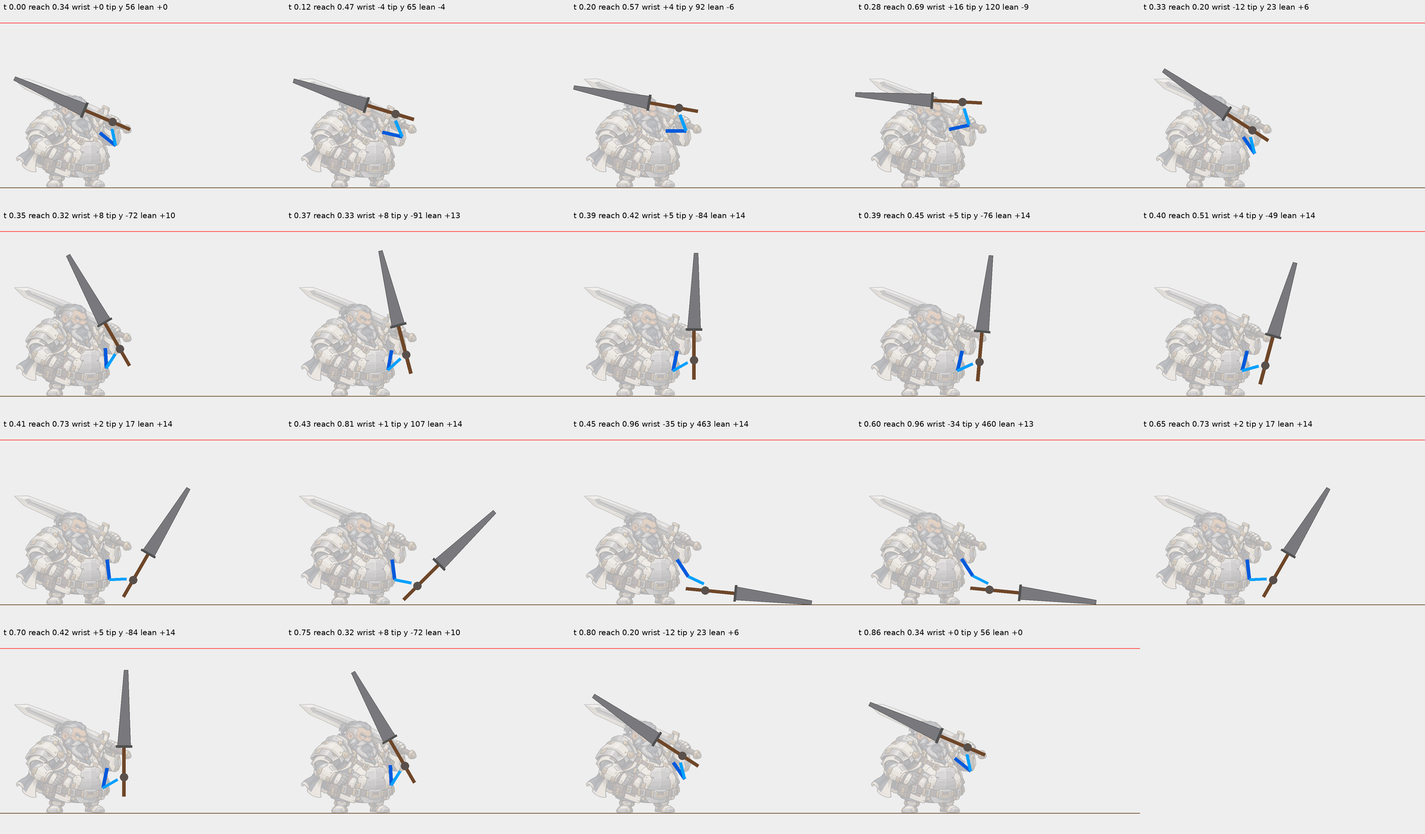
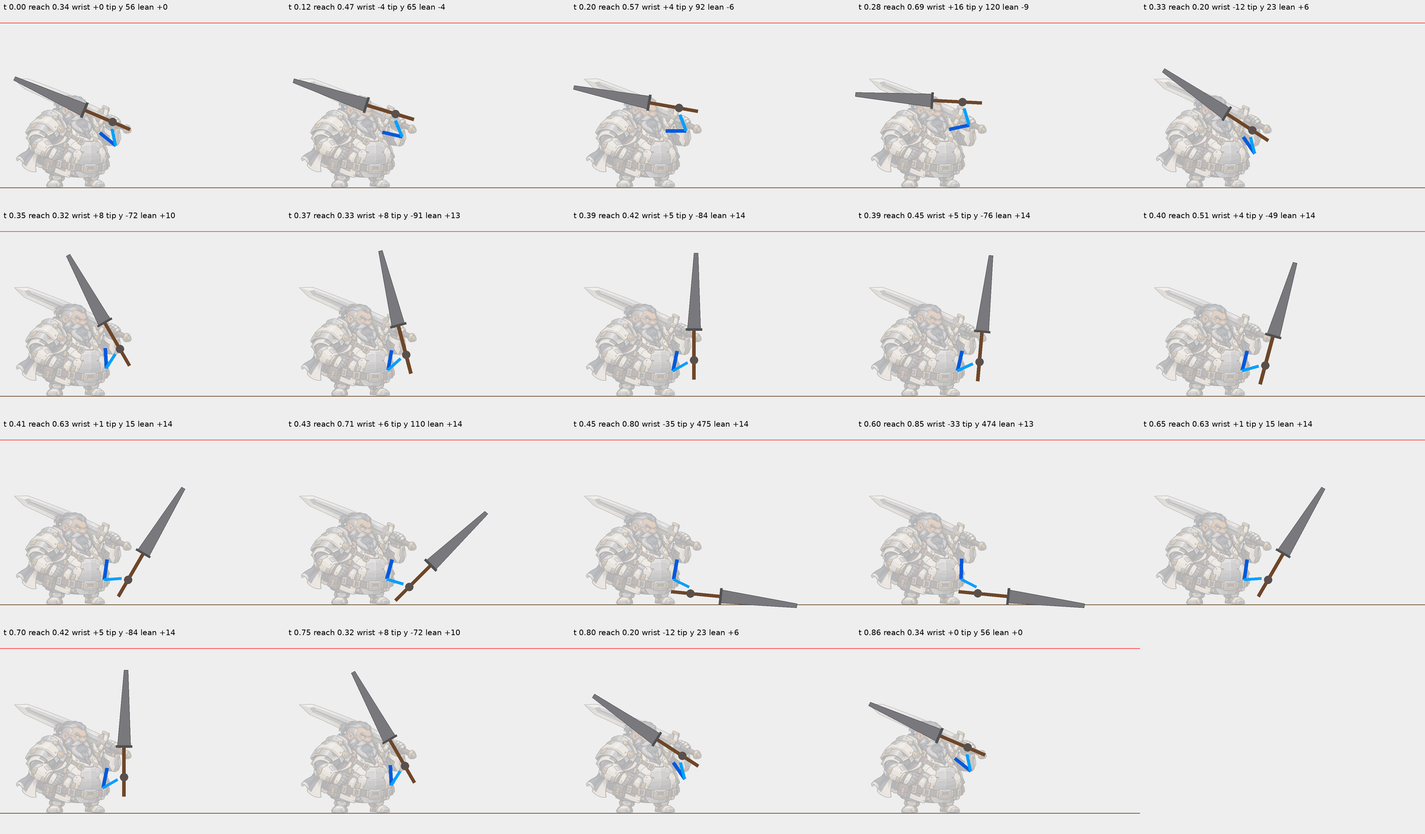
29 스카이 팔로메 v1.1: 달리는 부츠 = 시트 부츠(엔진 opt-in legs.tube.runBoot), 발목 평평·보폭 짧게 / 타격 때 먼 팔꿈치 굽힘(펴짐 ≤ .85)
- DHL 07:25 '달리기 자세 어색 · 팔이 갑자기 늘어나요'
- 엔진: tube 다리에서 달릴 때 쪽별 runBoot 로 한 프레임에 바꿈 — 옵션 없는 리그는 그대로
- rekey29.py: 칼 각·몸 기울기 그대로, 쥔 점만 조건 맞는 가장 가까운 자리. 먼 윗팔·먼 어깨는 새 조각 요청

Claude-Session: https://claude.ai/code/session_011WxNHak8EsK79yqEoeePC7

diff --git a/assets/rig/palome-sky/rig.def.js b/assets/rig/palome-sky/rig.def.js
@@ -1,3 +1,3 @@
 // 자동 생성: rig.json을 JS로 감싼 것. 원본은 같은 폴더의 rig.json (source/build_sky29.py)
 window.MR_RIG_DEFS=window.MR_RIG_DEFS||{};
-window.MR_RIG_DEFS['palome-sky']={"name": "palome-sky", "version": "4c449f3d", "units": "rig px (원화 512 ×2)", "refOrigin": [526.0, 956.0], "refScale": 1.0, "refLift": 0, "parts": {"torso": {"src": "parts/torso.png", "pivot": [140.0, 239.0], "scale": 2.0}, "skirt": {"src": "parts/skirt.png", "pivot": [140.0, 41.0], "scale": 2.0, "mesh": {"cols": 8, "rows": 6}}, "head": {"src": "parts/head.png", "pivot": [102.0, 138.0], "scale": 2.0}, "pauldron": {"src": "parts/pauldron.png", "pivot": [93.0, 89.0], "scale": 2.0}, "armU": {"src": "parts/armU.png", "pivot": [81.0, 21.0], "scale": 2.0, "elbow": [19.0, 82.0]}, "armL": {"src": "parts/armL.png", "pivot": [19.0, 27.0], "scale": 2.0, "fist": [105.4, 61.8]}, "armF": {"src": "parts/armF.png", "pivot": [10.0, 18.0], "scale": 2.0, "elbow": [72.0, 68.0]}, "foreF": {"src": "parts/foreF.png", "pivot": [50.0, 78.0], "scale": 2.0}, "fistF": {"src": "parts/fistF.png", "pivot": [36.0, 61.0], "scale": 2.0}, "pauldronF": {"src": "parts/pauldronF.png", "pivot": [10.0, 13.0], "scale": 2.0}, "cape": {"src": "parts/cape.png", "pivot": [87.0, 27.0], "scale": 2.0, "mesh": {"cols": 6, "rows": 7}}, "weapon": {"src": "parts/weapon.png", "pivot": [97.0, 847.0], "scale": 1.0, "tip": [107.9, 4.6], "tips": [[95.9, 24.6], [135.9, 24.6]], "guard": [107.6, 755.7], "pommel": [79.4, 997.7]}, "face_happy": {"src": "parts/face_happy.png", "pivot": [102.0, 138.0], "scale": 2.0}, "face_angry": {"src": "parts/face_angry.png", "pivot": [102.0, 138.0], "scale": 2.0}, "face_focus": {"src": "parts/face_focus.png", "pivot": [102.0, 138.0], "scale": 2.0}, "face_shout": {"src": "parts/face_shout.png", "pivot": [102.0, 138.0], "scale": 2.0}, "face_effort": {"src": "parts/face_effort.png", "pivot": [102.0, 138.0], "scale": 2.0}, "face_half": {"src": "parts/face_half.png", "pivot": [102.0, 138.0], "scale": 2.0}, "face_closed": {"src": "parts/face_closed.png", "pivot": [102.0, 138.0], "scale": 2.0}, "bootStandN": {"src": "parts/bootStandN.png", "pivot": [27.0, 25.0], "scale": 2.0}, "bootStandF": {"src": "parts/bootStandF.png", "pivot": [35.0, 23.0], "scale": 2.0}, "bootRun": {"src": "parts/bootRun.png", "pivot": [31.0, 45.0], "scale": 2.0}, "shinP": {"src": "parts/shinP.png", "pivot": [0, 0], "scale": 1}, "gF": {"src": "parts/fistF.png", "pivot": [36.0, 61.0], "grip": [38.0, 34.6], "elbow": [36.0, 61.0], "wrist": [36.0, 61.0], "scale": 2.0, "shaftDir": [-0.9215, -0.3885], "fore": "foreFa", "foreBone": "foreFb", "foreDir": [0.2075, 0.9782]}, "foreFa": {"src": "parts/foreF.png", "pivot": [36.0, 12.0], "elbow": [50.0, 78.0], "scale": 2.0}}, "bones": [{"name": "root", "parent": null, "pos": [0, 0]}, {"name": "hip", "parent": "root", "pos": [10.0, -172.0]}, {"name": "skirt", "parent": "hip", "pos": [0.0, 0.0], "part": "skirt"}, {"name": "torso", "parent": "hip", "pos": [0.0, 0.0], "part": "torso"}, {"name": "head", "parent": "torso", "pos": [28.0, -288.0], "part": "head"}, {"name": "armF", "parent": "torso", "pos": [188.0, -260.0], "part": "armF"}, {"name": "foreF", "parent": "armF", "pos": [124.0, 100.0], "part": "foreF"}, {"name": "fistF", "parent": "foreF", "pos": [-28.0, -132.0], "part": "fistF"}, {"name": "weapon", "parent": "fistF", "pos": [4.0, -52.7], "rot": -1.1718, "part": "weapon"}, {"name": "armU", "parent": "torso", "pos": [-216.0, -294.0], "part": "armU"}, {"name": "armL", "parent": "armU", "pos": [-124.0, 122.0], "rot": 0.3, "part": "armL"}, {"name": "pauldron", "parent": "torso", "pos": [-216.0, -294.0], "part": "pauldron"}, {"name": "cape", "parent": "torso", "pos": [-300.0, -184.0], "part": "cape"}, {"name": "scarf", "parent": "torso", "pos": [28.0, -288.0]}, {"name": "pouch", "parent": "hip", "pos": [0.0, 0.0]}, {"name": "pauldronF", "parent": "torso", "pos": [188.0, -260.0], "part": "pauldronF"}, {"name": "foreFb", "parent": "torso", "pos": [284.0, -292.0]}], "legs": {"hip": [0, 76.0], "thigh": 30.1, "shin": 30.1, "thighImg": {"part": "shinP", "a": [22, 0], "b": [22, 46], "w": 0.001}, "shinImg": {"part": "shinP", "a": [22, 0], "b": [22, 46], "w": 0.001}, "boot": {"part": "bootRun", "sole": [[-26.0, 18.0], [-12.0, 19.0], [13.0, 22.0], [35.0, 21.0], [49.0, 19.0]], "ankleRange": [-0.85, 0.95]}, "tube": {"part": "shinP", "a": [22, 0], "b": [22, 46], "k": 1.8}, "near": {"x": -172.0, "shade": 0, "thighImg": {"part": "shinP", "a": [22, 0], "b": [22, 46], "w": 0.001}, "shinImg": {"part": "shinP", "a": [22, 0], "b": [22, 46], "w": 0.001}, "stand": {"fade": [0.12, 0.4], "boot": {"part": "bootStandN", "sole": [[-24.0, 15.0], [-11.0, 19.0], [2.0, 20.0], [32.0, 17.0], [45.0, -10.0]]}}}, "far": {"x": 124.0, "shade": 0, "thighImg": {"part": "shinP", "a": [22, 0], "b": [22, 46], "w": 0.001}, "shinImg": {"part": "shinP", "a": [22, 0], "b": [22, 46], "w": 0.001}, "stand": {"fade": [0.12, 0.4], "boot": {"part": "bootStandF", "sole": [[-31.0, -11.0], [-16.0, 17.0], [18.0, 20.0], [34.0, 19.0], [49.0, 17.0]]}}}}, "draw": ["cape", "legFar", "legNear", "torso", "skirt", "armF", "pauldronF", "foreF", "weapon", "armU", "pauldron", "head", "fistF", "armL"], "hidden": [], "faces": {"happy": "face_happy", "angry": "face_angry", "focus": "face_focus", "shout": "face_shout", "effort": "face_effort"}, "blinkFaces": {"half": "face_half", "closed": "face_closed"}, "idleStance": {"near": -12.0, "far": 2.0}, "gait": {"stance": 0.18, "strideBase": 14, "strideK": 0.08, "hipBase": 0, "bob": 9, "lean": 0.06, "waddle": 0.02, "headBob": 3, "kneeLift": 0.25, "heelKick": 0.05, "dropCap": 16, "swingReach": 0.05, "landAng": -0.08, "angK": 0.45, "elbowRun": 0.3, "foreRun": 0.3, "armSwing": 0.08, "armBias": 0.0, "headRun": 0.06}, "hemRun": {"lift": 8, "knee": 0.5, "heel": 0.3, "reach": 0.2}, "hemLimit": {"up": 0.25, "x": 0.3}, "hemGain": 0.15, "footReach": 0.97, "follow": [{"bone": "pauldron", "src": "armU", "k": 0.3}], "skirtFollow": 0.7, "carrySwing": 0.15, "wristRange": 0.2, "dropLift": 10, "bounce": [], "metrics": {"bodyHeight": 734, "note": "rig units; 머리카락 위(y111)~발바닥(478) ×2, 칼 제외"}, "ui": {"attack": "smash", "touch": "hop"}, "gameRef": {"refOrigin": [246.5, 478.0], "refScale": 2.0, "refLift": 0, "note": "게임 그림 char_0029.png(512) = 원화(md5 같음). x = 도감 칸(fitArt 중심 251.5, index.html measureBox 와 같은 계산)에서 골반(hip x 268)이 가운데 (9 팔로메와 같은 규칙)"}, "note": "29 스카이아크 팔로메 v1(대기·달리기·한 손 내려찍기). 9 러스트 팔로메 v1.1 구조(드워프 몸, 먼 팔이 칼을 어깨에 멤, 칼날 머리 뒤) + 망토. 조각 = 원화를 부품별로 나눔(seg29.py) + 가려진 곳만 시트·inpaint 로 메움", "swordGrip": {"tipDepth": 6, "near": {"upper": "armF", "carry": "gF", "pieces": []}, "far": {"upper": "armU", "pieces": ["armL"], "sPref": 0}, "stretchMax": 1.05, "shoulderPush": 0}, "drawA": ["cape", "legFar", "legNear", "torso", "skirt", "armF", "pauldronF", "foreFb", "weapon", "armU", "pauldron", "head", "foreF", "armL"], "drawStrike": ["cape", "legFar", "legNear", "torso", "skirt", "armF", "pauldronF", "foreFb", "armU", "pauldron", "head", "weapon", "foreF", "armL"], "actions": {"smash": {"kind": "sword", "rigid": true, "orderAlways": true, "dur": 0.9, "hitAt": 0.45, "hitStop": 0.07, "cancelAt": 0.66, "w": [[0, 1]], "reach": [[0, 0]], "nPiece": [[0, "gF"]], "nUpper": [[0, "armF"]], "armIK": [[0, 1]], "ikSideK": {"N": [[0, 1]]}, "gx": [[0.0, 288.0, "io"], [0.12, 272.2, "io"], [0.28, 248.8, "io"], [0.33, 286.2, "lin"], [0.355, 347.0, "lin"], [0.37, 356.4, "lin"], [0.385, 379.8, "lin"], [0.4, 389.2, "lin"], [0.415, 450.0, "lin"], [0.43, 445.2, "lin"], [0.45, 466.2, "io"], [0.6, 461.6, "io"], [0.65, 450.0, "lin"], [0.7, 379.8, "lin"], [0.75, 347.0, "io"], [0.8, 286.2, "io"], [0.86, 288.0, "io"]], "gy": [[0.0, -344.8, "io"], [0.12, -415.4, "io"], [0.28, -500.8, "io"], [0.33, -290.8, "lin"], [0.355, -217.2, "lin"], [0.37, -174.4, "lin"], [0.385, -134.4, "lin"], [0.4, -92.2, "lin"], [0.415, -45.4, "lin"], [0.43, 1.4, "lin"], [0.45, 36.4, "io"], [0.6, 33.8, "io"], [0.65, -45.4, "lin"], [0.7, -134.4, "lin"], [0.75, -217.2, "io"], [0.8, -290.8, "io"], [0.86, -344.8, "io"]], "sa": [[0.0, -2.7426, "io"], [0.12, -2.8449, "io"], [0.28, -3.0892, "io"], [0.33, -2.5656, "lin"], [0.355, -2.0944, "lin"], [0.37, -1.8326, "lin"], [0.385, -1.5708, "lin"], [0.4, -1.309, "lin"], [0.415, -1.0472, "lin"], [0.43, -0.7854, "lin"], [0.45, 0.096, "io"], [0.6, 0.096, "io"], [0.65, -1.0472, "lin"], [0.7, -1.5708, "lin"], [0.75, -2.0944, "io"], [0.8, -2.5656, "io"], [0.86, -2.7426, "io"]], "lean": [[0.0, 0.0, "io"], [0.12, -0.0698, "io"], [0.28, -0.1571, "io"], [0.33, 0.1047, "lin"], [0.355, 0.1745, "lin"], [0.37, 0.2269, "lin"], [0.385, 0.2443, "lin"], [0.4, 0.2443, "lin"], [0.415, 0.2443, "lin"], [0.43, 0.2443, "lin"], [0.45, 0.2443, "io"], [0.6, 0.2269, "io"], [0.65, 0.2443, "lin"], [0.7, 0.2443, "lin"], [0.75, 0.1745, "io"], [0.8, 0.1047, "io"], [0.86, 0.0, "io"]], "hipY": [[0.0, 0.0, "io"], [0.12, 8.0, "io"], [0.28, 0.0, "io"], [0.33, 12.0, "lin"], [0.355, 18.0, "lin"], [0.37, 22.0, "lin"], [0.385, 24.0, "lin"], [0.4, 24.0, "lin"], [0.415, 24.0, "lin"], [0.43, 24.0, "lin"], [0.45, 24.0, "io"], [0.6, 22.0, "io"], [0.65, 24.0, "lin"], [0.7, 24.0, "lin"], [0.75, 18.0, "io"], [0.8, 12.0, "io"], [0.86, 0.0, "io"]], "head": [[0, 0], [0.28, -0.06, "io"], [0.45, 0.05, "io"], [0.6, 0.04, "io"], [0.86, 0]], "freeArm": true, "fuA": [[0, 0], [0.28, -0.12, "io"], [0.45, 0.3, "o"], [0.6, 0.26, "io"], [0.86, 0]], "flA": [[0, 0], [0.28, -0.08, "io"], [0.45, 0.18, "o"], [0.6, 0.15, "io"], [0.86, 0]], "face": [[0, "angry"], [0.12, "effort"], [0.4, "shout"], [0.62, "focus"], [0.82, null]], "order": [[0, "drawA"], [0.375, "drawStrike"], [0.72, "drawA"]]}}, "cutHold": 0.25};
+window.MR_RIG_DEFS['palome-sky']={"name": "palome-sky", "version": "11625f0d", "units": "rig px (원화 512 ×2)", "refOrigin": [526.0, 956.0], "refScale": 1.0, "refLift": 0, "parts": {"torso": {"src": "parts/torso.png", "pivot": [140.0, 239.0], "scale": 2.0}, "skirt": {"src": "parts/skirt.png", "pivot": [140.0, 41.0], "scale": 2.0, "mesh": {"cols": 8, "rows": 6}}, "head": {"src": "parts/head.png", "pivot": [102.0, 138.0], "scale": 2.0}, "pauldron": {"src": "parts/pauldron.png", "pivot": [93.0, 89.0], "scale": 2.0}, "armU": {"src": "parts/armU.png", "pivot": [81.0, 21.0], "scale": 2.0, "elbow": [19.0, 82.0]}, "armL": {"src": "parts/armL.png", "pivot": [19.0, 27.0], "scale": 2.0, "fist": [105.4, 61.8]}, "armF": {"src": "parts/armF.png", "pivot": [10.0, 18.0], "scale": 2.0, "elbow": [72.0, 68.0]}, "foreF": {"src": "parts/foreF.png", "pivot": [50.0, 78.0], "scale": 2.0}, "fistF": {"src": "parts/fistF.png", "pivot": [36.0, 61.0], "scale": 2.0}, "pauldronF": {"src": "parts/pauldronF.png", "pivot": [10.0, 13.0], "scale": 2.0}, "cape": {"src": "parts/cape.png", "pivot": [87.0, 27.0], "scale": 2.0, "mesh": {"cols": 6, "rows": 7}}, "weapon": {"src": "parts/weapon.png", "pivot": [97.0, 847.0], "scale": 1.0, "tip": [107.9, 4.6], "tips": [[95.9, 24.6], [135.9, 24.6]], "guard": [107.6, 755.7], "pommel": [79.4, 997.7]}, "face_happy": {"src": "parts/face_happy.png", "pivot": [102.0, 138.0], "scale": 2.0}, "face_angry": {"src": "parts/face_angry.png", "pivot": [102.0, 138.0], "scale": 2.0}, "face_focus": {"src": "parts/face_focus.png", "pivot": [102.0, 138.0], "scale": 2.0}, "face_shout": {"src": "parts/face_shout.png", "pivot": [102.0, 138.0], "scale": 2.0}, "face_effort": {"src": "parts/face_effort.png", "pivot": [102.0, 138.0], "scale": 2.0}, "face_half": {"src": "parts/face_half.png", "pivot": [102.0, 138.0], "scale": 2.0}, "face_closed": {"src": "parts/face_closed.png", "pivot": [102.0, 138.0], "scale": 2.0}, "bootStandN": {"src": "parts/bootStandN.png", "pivot": [27.0, 25.0], "scale": 2.0}, "bootStandF": {"src": "parts/bootStandF.png", "pivot": [35.0, 23.0], "scale": 2.0}, "bootNRun": {"src": "parts/bootNRun.png", "pivot": [28.6, 41.0], "scale": 2.0}, "bootFRun": {"src": "parts/bootFRun.png", "pivot": [28.6, 42.0], "scale": 2.0}, "shinP": {"src": "parts/shinP.png", "pivot": [0, 0], "scale": 1}, "gF": {"src": "parts/fistF.png", "pivot": [36.0, 61.0], "grip": [38.0, 34.6], "elbow": [36.0, 61.0], "wrist": [36.0, 61.0], "scale": 2.0, "shaftDir": [-0.9215, -0.3885], "fore": "foreFa", "foreBone": "foreFb", "foreDir": [0.2075, 0.9782]}, "foreFa": {"src": "parts/foreF.png", "pivot": [36.0, 12.0], "elbow": [50.0, 78.0], "scale": 2.0}}, "bones": [{"name": "root", "parent": null, "pos": [0, 0]}, {"name": "hip", "parent": "root", "pos": [10.0, -172.0]}, {"name": "skirt", "parent": "hip", "pos": [0.0, 0.0], "part": "skirt"}, {"name": "torso", "parent": "hip", "pos": [0.0, 0.0], "part": "torso"}, {"name": "head", "parent": "torso", "pos": [28.0, -288.0], "part": "head"}, {"name": "armF", "parent": "torso", "pos": [188.0, -260.0], "part": "armF"}, {"name": "foreF", "parent": "armF", "pos": [124.0, 100.0], "part": "foreF"}, {"name": "fistF", "parent": "foreF", "pos": [-28.0, -132.0], "part": "fistF"}, {"name": "weapon", "parent": "fistF", "pos": [4.0, -52.7], "rot": -1.1718, "part": "weapon"}, {"name": "armU", "parent": "torso", "pos": [-216.0, -294.0], "part": "armU"}, {"name": "armL", "parent": "armU", "pos": [-124.0, 122.0], "rot": 0.3, "part": "armL"}, {"name": "pauldron", "parent": "torso", "pos": [-216.0, -294.0], "part": "pauldron"}, {"name": "cape", "parent": "torso", "pos": [-300.0, -184.0], "part": "cape"}, {"name": "scarf", "parent": "torso", "pos": [28.0, -288.0]}, {"name": "pouch", "parent": "hip", "pos": [0.0, 0.0]}, {"name": "pauldronF", "parent": "torso", "pos": [188.0, -260.0], "part": "pauldronF"}, {"name": "foreFb", "parent": "torso", "pos": [284.0, -292.0]}], "legs": {"hip": [0, 76.0], "thigh": 30.1, "shin": 30.1, "thighImg": {"part": "shinP", "a": [22, 0], "b": [22, 46], "w": 0.001}, "shinImg": {"part": "shinP", "a": [22, 0], "b": [22, 46], "w": 0.001}, "boot": {"part": "bootFRun", "sole": [[-26.6, 16.0], [-9.6, 17.0], [9.4, 19.0], [28.4, 20.0], [45.4, 17.0]], "ankleRange": [-1.7, 1.7]}, "tube": {"part": "shinP", "a": [22, 0], "b": [22, 46], "k": 1.8, "runBoot": true}, "near": {"x": -172.0, "shade": 0, "thighImg": {"part": "shinP", "a": [22, 0], "b": [22, 46], "w": 0.001}, "shinImg": {"part": "shinP", "a": [22, 0], "b": [22, 46], "w": 0.001}, "runBoot": "bootNRun", "stand": {"fade": [0.12, 0.4], "boot": {"part": "bootStandN", "sole": [[-24.0, 15.0], [-11.0, 19.0], [2.0, 20.0], [32.0, 17.0], [45.0, -10.0]]}}}, "far": {"x": 124.0, "shade": 0, "thighImg": {"part": "shinP", "a": [22, 0], "b": [22, 46], "w": 0.001}, "shinImg": {"part": "shinP", "a": [22, 0], "b": [22, 46], "w": 0.001}, "runBoot": "bootFRun", "stand": {"fade": [0.12, 0.4], "boot": {"part": "bootStandF", "sole": [[-31.0, -11.0], [-16.0, 17.0], [18.0, 20.0], [34.0, 19.0], [49.0, 17.0]]}}}}, "draw": ["cape", "legFar", "legNear", "torso", "skirt", "armF", "pauldronF", "foreF", "weapon", "armU", "pauldron", "head", "fistF", "armL"], "hidden": [], "faces": {"happy": "face_happy", "angry": "face_angry", "focus": "face_focus", "shout": "face_shout", "effort": "face_effort"}, "blinkFaces": {"half": "face_half", "closed": "face_closed"}, "idleStance": {"near": -12.0, "far": 2.0}, "gait": {"stance": 0.18, "strideBase": 14, "strideK": 0.06, "hipBase": 0, "bob": 6, "lean": 0.06, "waddle": 0.02, "headBob": 3, "kneeLift": 0.2, "heelKick": 0.03, "dropCap": 12, "swingReach": 0.05, "landAng": -0.04, "angK": 0.2, "elbowRun": 0.3, "foreRun": 0.3, "armSwing": 0.08, "armBias": 0.0, "headRun": 0.06}, "hemRun": {"lift": 8, "knee": 0.5, "heel": 0.3, "reach": 0.2}, "hemLimit": {"up": 0.25, "x": 0.3}, "hemGain": 0.15, "footReach": 0.97, "follow": [{"bone": "pauldron", "src": "armU", "k": 0.3}], "skirtFollow": 0.7, "carrySwing": 0.15, "wristRange": 0.2, "dropLift": 10, "bounce": [], "metrics": {"bodyHeight": 734, "note": "rig units; 머리카락 위(y111)~발바닥(478) ×2, 칼 제외"}, "ui": {"attack": "smash", "touch": "hop"}, "gameRef": {"refOrigin": [246.5, 478.0], "refScale": 2.0, "refLift": 0, "note": "게임 그림 char_0029.png(512) = 원화(md5 같음). x = 도감 칸(fitArt 중심 251.5, index.html measureBox 와 같은 계산)에서 골반(hip x 268)이 가운데 (9 팔로메와 같은 규칙)"}, "note": "29 스카이아크 팔로메 v1(대기·달리기·한 손 내려찍기). 9 러스트 팔로메 v1.1 구조(드워프 몸, 먼 팔이 칼을 어깨에 멤, 칼날 머리 뒤) + 망토. 조각 = 원화를 부품별로 나눔(seg29.py) + 가려진 곳만 시트·inpaint 로 메움", "swordGrip": {"tipDepth": 6, "near": {"upper": "armF", "carry": "gF", "pieces": []}, "far": {"upper": "armU", "pieces": ["armL"], "sPref": 0}, "stretchMax": 1.05, "shoulderPush": 0}, "drawA": ["cape", "legFar", "legNear", "torso", "skirt", "armF", "pauldronF", "foreFb", "weapon", "armU", "pauldron", "head", "foreF", "armL"], "drawStrike": ["cape", "legFar", "legNear", "torso", "skirt", "armF", "pauldronF", "foreFb", "armU", "pauldron", "head", "weapon", "foreF", "armL"], "actions": {"smash": {"kind": "sword", "rigid": true, "orderAlways": true, "dur": 0.9, "hitAt": 0.45, "hitStop": 0.07, "cancelAt": 0.66, "w": [[0, 1]], "reach": [[0, 0]], "nPiece": [[0, "gF"]], "nUpper": [[0, "armF"]], "armIK": [[0, 1]], "ikSideK": {"N": [[0, 1]]}, "gx": [[0.0, 288.0, "io"], [0.12, 272.2, "io"], [0.28, 248.8, "io"], [0.33, 286.2, "lin"], [0.355, 347.0, "lin"], [0.37, 356.4, "lin"], [0.385, 379.8, "lin"], [0.4, 389.2, "lin"], [0.415, 410.0, "lin"], [0.43, 380.0, "lin"], [0.45, 350.2, "io"], [0.6, 369.6, "io"], [0.65, 410.0, "lin"], [0.7, 379.8, "lin"], [0.75, 347.0, "io"], [0.8, 286.2, "io"], [0.86, 288.0, "io"]], "gy": [[0.0, -344.8, "io"], [0.12, -415.4, "io"], [0.28, -500.8, "io"], [0.33, -290.8, "lin"], [0.355, -217.2, "lin"], [0.37, -174.4, "lin"], [0.385, -134.4, "lin"], [0.4, -92.2, "lin"], [0.415, -48.0, "lin"], [0.43, 8.0, "lin"], [0.45, 60.4, "io"], [0.6, 61.8, "io"], [0.65, -48.0, "lin"], [0.7, -134.4, "lin"], [0.75, -217.2, "io"], [0.8, -290.8, "io"], [0.86, -344.8, "io"]], "sa": [[0.0, -2.7426, "io"], [0.12, -2.8449, "io"], [0.28, -3.0892, "io"], [0.33, -2.5656, "lin"], [0.355, -2.0944, "lin"], [0.37, -1.8326, "lin"], [0.385, -1.5708, "lin"], [0.4, -1.309, "lin"], [0.415, -1.0472, "lin"], [0.43, -0.7854, "lin"], [0.45, 0.096, "io"], [0.6, 0.096, "io"], [0.65, -1.0472, "lin"], [0.7, -1.5708, "lin"], [0.75, -2.0944, "io"], [0.8, -2.5656, "io"], [0.86, -2.7426, "io"]], "lean": [[0.0, 0.0, "io"], [0.12, -0.0698, "io"], [0.28, -0.1571, "io"], [0.33, 0.1047, "lin"], [0.355, 0.1745, "lin"], [0.37, 0.2269, "lin"], [0.385, 0.2443, "lin"], [0.4, 0.2443, "lin"], [0.415, 0.2443, "lin"], [0.43, 0.2443, "lin"], [0.45, 0.2443, "io"], [0.6, 0.2269, "io"], [0.65, 0.2443, "lin"], [0.7, 0.2443, "lin"], [0.75, 0.1745, "io"], [0.8, 0.1047, "io"], [0.86, 0.0, "io"]], "hipY": [[0.0, 0.0, "io"], [0.12, 8.0, "io"], [0.28, 0.0, "io"], [0.33, 12.0, "lin"], [0.355, 18.0, "lin"], [0.37, 22.0, "lin"], [0.385, 24.0, "lin"], [0.4, 24.0, "lin"], [0.415, 24.0, "lin"], [0.43, 24.0, "lin"], [0.45, 24.0, "io"], [0.6, 22.0, "io"], [0.65, 24.0, "lin"], [0.7, 24.0, "lin"], [0.75, 18.0, "io"], [0.8, 12.0, "io"], [0.86, 0.0, "io"]], "head": [[0, 0], [0.28, -0.06, "io"], [0.45, 0.05, "io"], [0.6, 0.04, "io"], [0.86, 0]], "freeArm": true, "fuA": [[0, 0], [0.28, -0.12, "io"], [0.45, 0.3, "o"], [0.6, 0.26, "io"], [0.86, 0]], "flA": [[0, 0], [0.28, -0.08, "io"], [0.45, 0.18, "o"], [0.6, 0.15, "io"], [0.86, 0]], "face": [[0, "angry"], [0.12, "effort"], [0.4, "shout"], [0.62, "focus"], [0.82, null]], "order": [[0, "drawA"], [0.375, "drawStrike"], [0.72, "drawA"]]}}, "cutHold": 0.25};

diff --git a/assets/rig/rig.js b/assets/rig/rig.js
@@ -151,7 +151,8 @@
       // S.thighImg / S.shinImg (opt-in): 가까운·먼 다리에 다른 그림. L.kneeImg / S.kneeImg (opt-in): 무릎 덮개(보호대)를 무릎 위에 따로 — 허벅지·정강이 가운데 각도
       if (L.tube) {   // legs.tube (opt-in, 6 카르덴 10-18): 다리 = 엉덩이→발목 곧은 바지 통 하나(무릎에서 꺾이지 않음, 굵기 고정) + 부츠 — 바지가 몸처럼 고정인 캐릭터에서 무릎이 바지 밖으로 튀어나와 '떨어진 다리'로 보이던 것
         const T_ = L.tube, im_ = this.images[T_.part], il_ = Math.hypot(T_.b[0] - T_.a[0], T_.b[1] - T_.a[1]), wl_ = Math.hypot(P.ankle[0] - P.hip[0], P.ankle[1] - P.hip[1]) || 1;
-        set(ctx, this._seg(R, T_.a, T_.b, P.hip, P.ankle, (T_.k || 1) * il_ / wl_)); ctx.drawImage(im_, 0, 0); boot(P.boot || bd.part);
+        set(ctx, this._seg(R, T_.a, T_.b, P.hip, P.ankle, (T_.k || 1) * il_ / wl_)); ctx.drawImage(im_, 0, 0);
+        if (T_.runBoot && S.stand) boot(P.standW >= .5 ? P.boot : (S.runBoot || bd.part)); else boot(P.boot || bd.part);   // tube.runBoot(opt-in, 29 스카이 팔로메): 달리면 서 있는 원화 부츠 대신 쪽별 달리기 부츠(S.runBoot) — 반투명 겹침 없이 한 프레임에 바꿈
         if (useF) ctx.filter = "none"; return }
       const drawSet = (ST) => {
         const bpn = ST ? ((ST.boot && ST.boot.part) || bd.part) : bd.part;

diff --git a/assets/rig/palome-sky/source/build_sky29.py b/assets/rig/palome-sky/source/build_sky29.py
@@ -157,7 +157,18 @@ print('  sword vertical: tip', np.round(W_TIP, 1), 'grip', np.round(W_PIV, 1), '
 o_lN = save('bootStandN', art(lab('legN'))); o_lF = save('bootStandF', art(lab('legF')))
 # 달리는 부츠 = 시트 먼 부츠(깨끗한 한 장, 앞코 오른쪽, 남색 목까지) → 원화 먼 부츠 바닥 양 끝에 맞춤(시트 0,48 → 303,471 · 69,48 → 382,471, 1.15배) · 색 = 원화 부츠
 #   (원화 다리를 밑단 아래에서 잘라 쓰면 목의 금 장식이 잘려 찢어진 조각처럼 보였음)
-bf = warp(col_match(sheet('bootF'), lab('legF') & (YY >= 446)), simil((0, 48), (69, 48), (303, 471), (382, 471))); o_bR = save('bootRun', bf)
+# 달리는 부츠(쪽별) = 시트 부츠 그대로 그림 크기 1.1배(늘이지 않음, 원화 부츠 길이에 맞춤) · 색 = 원화 부츠. 발목 점 = 정강이 판 아래(시트 x 26, 밑창 위 20px)
+#   엔진 opt-in legs.tube.runBoot 으로 달릴 때만(서 있을 땐 원화 다리) — 10-20 07:25 DHL '달리기 자세 어색': 원화 다리를 잘라 만든 부츠가 돌며 찢긴 장식·아래로 꺾인 발끝
+RBK = 1.1
+def run_boot(nm, lm):
+    b = col_match(sheet(nm), lm & (YY >= 446)); H_, W_ = b.shape[:2]; b = cv2.resize(b, (int(round(W_ * RBK)), int(round(H_ * RBK))), interpolation=cv2.INTER_LANCZOS4)
+    ys, xs = np.nonzero(b[..., 3] > 128); sole = ys.max(); piv = (26 * RBK, sole - 20.0)
+    Image.fromarray(b).save(os.path.join(PARTS, f'{nm}Run.png'))
+    bot = {x: ys[xs == x].max() for x in range(xs.min(), xs.max() + 1) if (xs == x).any()}; xl, xr = min(bot), max(bot)
+    cols = sorted(set(int(round(xl + (xr - xl) * f)) for f in (0.03, 0.25, 0.5, 0.75, 0.97)))
+    return piv, [[round(float(x - piv[0]), 1), round(float(bot[x] - piv[1]), 1)] for x in cols]
+RB = {'near': run_boot('bootN', lab('legN')), 'far': run_boot('bootF', lab('legF'))}
+bf = art(lab('legF') & (YY >= 446))   # (옛 bootRun — 쓰지 않음, 밑창 점 계산용)
 def sole_pts(m, ankle, ground=None):
     ys, xs = np.nonzero(m); xl, xr = xs.min(), xs.max(); bot = {x: ys[xs == x].max() for x in range(xl, xr + 1) if (xs == x).any()}
     xlow = max(bot, key=lambda x: bot[x]); cols = sorted(set([int(round(xl + (xr - xl) * f)) for f in (0.02, 0.2, 0.8, 0.98)] + [xlow]))
@@ -214,7 +225,7 @@ parts['weapon'] = {'src': 'parts/weapon.png', 'pivot': [round(float(W_PIV[0]), 1
                    'guard': [round(float(W_GUARD[0]), 1), round(float(W_GUARD[1]), 1)], 'pommel': [round(float(W_POM[0]), 1), round(float(W_POM[1]), 1)]}
 for n in FACE_N + BLINK_N: parts[f'face_{n}'] = {'src': f'parts/face_{n}.png', 'pivot': parts['head']['pivot'], 'scale': SC}
 for nm, sd in [('bootStandN', 'near'), ('bootStandF', 'far')]: P_(nm, LEG[sd]['ankle'])
-P_('bootRun', LEG['far']['ankle'])
+for _sd, _nm in (('near', 'bootNRun'), ('far', 'bootFRun')): parts[_nm] = {'src': f'parts/{_nm}.png', 'pivot': [round(RB[_sd][0][0], 1), round(RB[_sd][0][1], 1)], 'scale': SC}
 parts['shinP'] = {'src': 'parts/shinP.png', 'pivot': [0, 0], 'scale': 1}
 WEAPON_ANG = math.atan2(UT[1], UT[0]) + math.pi / 2   # 세로 칼 그림 뼈의 세계 각(그림 위쪽 → 칼끝)
 ARML_REST = 0.3   # 엔진이 서 있을 때 자유 팔뚝을 −0.3 rad 굽힘(armL.ar) → 뼈 rot 에 +0.3 을 넣어 대기 = 원화
@@ -237,10 +248,10 @@ hipY = SC * (LEG['near']['hip'][1] - HIP[1])
 LEGL = float(np.linalg.norm(LEG['near']['ankle'] - LEG['near']['hip'])) * SC   # 엉덩이→발목(리그) — 짧은 드워프 다리: 허벅지·정강이 = 반씩 + 5%
 legs = {'hip': [0, round(hipY, 1)], 'thigh': round(LEGL * .525, 1), 'shin': round(LEGL * .525, 1),
         'thighImg': {'part': 'shinP', 'a': [22, 0], 'b': [22, 46], 'w': 0.001}, 'shinImg': {'part': 'shinP', 'a': [22, 0], 'b': [22, 46], 'w': 0.001},
-        'boot': {'part': 'bootRun', 'sole': sole_pts(bf[..., 3] > 128, LEG['far']['ankle']), 'ankleRange': [-0.85, 0.95]},
-        'tube': {'part': 'shinP', 'a': [22, 0], 'b': [22, 46], 'k': 1.8}}
+        'boot': {'part': 'bootFRun', 'sole': RB['far'][1], 'ankleRange': [-1.7, 1.7]},   # 발목 범위 넓게 — 짧은 다리라 정강이(통) 각이 크게 흔들려도 부츠는 땅과 거의 평평(좁으면 부츠가 통을 따라 돌아 발끝이 아래로 꺾임)
+        'tube': {'part': 'shinP', 'a': [22, 0], 'b': [22, 46], 'k': 1.8, 'runBoot': True}}
 for sd, nm, lm in [('near', 'bootStandN', lab('legN')), ('far', 'bootStandF', lab('legF'))]:
-    legs[sd] = {'x': round(SC * (LEG[sd]['hip'][0] - HIP[0]), 1), 'shade': 0, 'thighImg': legs['thighImg'], 'shinImg': legs['shinImg'],
+    legs[sd] = {'x': round(SC * (LEG[sd]['hip'][0] - HIP[0]), 1), 'shade': 0, 'thighImg': legs['thighImg'], 'shinImg': legs['shinImg'], 'runBoot': 'bootNRun' if sd == 'near' else 'bootFRun',
                 'stand': {'fade': [0.12, 0.4], 'boot': {'part': nm, 'sole': sole_pts(lm, LEG[sd]['ankle'], O[1])}}}
 idle = {sd: round(SC * (LEG[sd]['ankle'][0] - LEG[sd]['hip'][0]), 1) for sd in ('near', 'far')}
 # 그리는 순서 (뒤 → 앞): 망토 · 먼 다리 · 가까운 다리 · 상체 · 치마 · 먼 윗팔(소매) · 먼 어깨 덮개(몸 띠) · 먼 팔뚝 · 칼(칼날은 머리 뒤) · 가까운 윗팔 · 어깨갑 · 머리+수염(+표정) · 먼 손 · 가까운 팔뚝+주먹(맨 앞 — 팔꿈치 레이어 > 어깨)
@@ -248,8 +259,8 @@ draw = ['cape', 'legFar', 'legNear', 'torso', 'skirt', 'armF', 'pauldronF', 'for
 rig = {'name': 'palome-sky', 'version': 1, 'units': 'rig px (원화 512 ×2)', 'refOrigin': [float(O[0] * 2), float(O[1] * 2)], 'refScale': 1.0, 'refLift': 0,
        'parts': parts, 'bones': bones, 'legs': legs, 'draw': draw, 'hidden': [], 'faces': {n: f'face_{n}' for n in FACE_N},
        'blinkFaces': {'half': 'face_half', 'closed': 'face_closed'}, 'idleStance': idle,
-       'gait': {'stance': 0.18, 'strideBase': 14, 'strideK': 0.08, 'hipBase': 0, 'bob': 9, 'lean': 0.06, 'waddle': 0.02, 'headBob': 3, 'kneeLift': 0.25, 'heelKick': 0.05, 'dropCap': 16,
-                'swingReach': 0.05, 'landAng': -0.08, 'angK': 0.45, 'elbowRun': 0.3, 'foreRun': 0.3, 'armSwing': 0.08, 'armBias': 0.0, 'headRun': 0.06},   # 가까운 팔은 배 앞을 가로지름 → 조금만 흔듦(배·주머니가 덜 드러남) · elbowRun .3 = 엔진 대기 팔뚝 굽힘(−.3)과 같아 달려도 팔뚝 각이 대기 그대로
+       'gait': {'stance': 0.18, 'strideBase': 14, 'strideK': 0.06, 'hipBase': 0, 'bob': 6, 'lean': 0.06, 'waddle': 0.02, 'headBob': 3, 'kneeLift': 0.2, 'heelKick': 0.03, 'dropCap': 12,
+                'swingReach': 0.05, 'landAng': -0.04, 'angK': 0.2, 'elbowRun': 0.3, 'foreRun': 0.3, 'armSwing': 0.08, 'armBias': 0.0, 'headRun': 0.06},   # 가까운 팔은 배 앞을 가로지름 → 조금만 흔듦(배·주머니가 덜 드러남) · elbowRun .3 = 엔진 대기 팔뚝 굽힘(−.3)과 같아 달려도 팔뚝 각이 대기 그대로
        'hemRun': {'lift': 8, 'knee': 0.5, 'heel': 0.3, 'reach': 0.2}, 'hemLimit': {'up': 0.25, 'x': 0.3}, 'hemGain': 0.15, 'footReach': 0.97,
        'follow': [{'bone': 'pauldron', 'src': 'armU', 'k': 0.3}], 'skirtFollow': 0.7, 'carrySwing': 0.15, 'wristRange': 0.2, 'dropLift': 10,
        'bounce': [], 'metrics': {'bodyHeight': round(2 * (478 - 111)), 'note': 'rig units; 머리카락 위(y111)~발바닥(478) ×2, 칼 제외'},

diff --git a/assets/rig/palome-sky/source/tools/rekey29.py b/assets/rig/palome-sky/source/tools/rekey29.py
@@ -1,0 +1,31 @@
+# 29 공격 키 다시 맞추기 (10-20 07:25 DHL '팔이 갑자기 늘어나요') — 규칙 33: 펴짐(reach) ≤ 0.85 · 손목 ≤ 35° · 칼끝 땅 위 · 칼끝이 지금보다 높지 않게(전투 칸)
+#   키마다 칼 각·몸 기울기·골반 내림은 그대로, 쥔 점만 지금 자리에서 가장 가까운 '조건 맞는 자리'로 옮김 → attack_keys.json(keys_prev 에 이전 키)
+import json, math, os, sys
+import numpy as np
+S_ = os.path.dirname(os.path.dirname(os.path.abspath(__file__)))
+sys.argv = ['presim29.py']; __file__ = os.path.join(S_, 'tools', 'presim29.py')
+exec(open(__file__).read().split("if __name__ == '__main__':")[0])
+AK = json.load(open(os.path.join(S_, 'attack_keys.json'))); K0 = AK['keys']
+RMAX, WMAX, TIPTOP = float(os.environ.get('RMAX', .85)), 35, -95
+def ok_at(gx, gy, sa, lean, hd):
+    globals()['KEYS'] = [[0, gx, gy, sa, lean, hd], [1, gx, gy, sa, lean, hd]]; p = pose(.5, SIDE)
+    ty = p['tip'][1] + HIP[1]; py = p['pom'][1] + HIP[1]
+    good = p['ok'] and p['reach'] <= RMAX and abs(p['bend']) <= WMAX and ty >= TIPTOP and max(ty, py) <= J['GROUND'] - 2
+    return good, p
+out = []
+for k in K0:
+    t, gx, gy, sa, lean, hd = k[:6]; e = k[6] if len(k) > 6 else 'io'
+    g, p = ok_at(gx, gy, sa, lean, hd)
+    if g: out.append(k); print(t, 'keep', round(p['reach'], 2), round(p['bend'])); continue
+    best = None
+    for dx in range(-90, 61, 2):
+        for dy in range(-90, 61, 2):
+            g, p = ok_at(gx + dx, gy + dy, sa, lean, hd)
+            if g:
+                d = math.hypot(dx, dy)
+                if best is None or d < best[0]: best = (d, gx + dx, gy + dy, p)
+    if best is None: print(t, 'NO SOLUTION'); out.append(k); continue
+    d, nx, ny, p = best; out.append([t, round(nx, 1), round(ny, 1), sa, lean, hd, e]); print(t, 'move', round(d, 1), 'reach', round(p['reach'], 2), 'wrist', round(p['bend']))
+AK['keys_prev'] = K0; AK['keys'] = out
+AK['note'] = AK['note'] + ' · 10-20 07:40 rekey29.py: 펴짐 ≤ %.2f(규칙 33) — 쥔 점만 가장 가까운 조건 맞는 자리로' % RMAX
+json.dump(AK, open(os.path.join(S_, 'attack_keys.json'), 'w'), ensure_ascii=False, indent=1)

diff --git a/assets/rig/palome-sky/STATUS.md b/assets/rig/palome-sky/STATUS.md
@@ -14,3 +14,10 @@
 - 게임 시험(임시 index_p29test.html, 저장소엔 안 넣음): 칼끝 최고가 전투 칸 위 끝에서 PC 17 · 폰 16px 아래 — 29 는 원화 속 몸이 커서(머리 위 y111) 게임 배율이 9 보다 작음
 - 도감 몸 가운데: gameRef x = O.x − (골반 268 − fitArt 중심 251.5)
 - 남은 것: 칼을 들 때 먼 소매 가장자리 톱니(원화 소매 조각 가장자리), 게임 연결(REGISTRY 29 · rig.js 캐시 태그 올림 — foreRun)
+
+## 07:33 (10-20) v1.1 — DHL 07:25 '1 달리기 자세가 어색(발 모양 리소스 필요하면 말해줘요) · 2 팔이 갑자기 늘어나요, 늘어나는 것 없이 보이는 리소스로' · 편집 툴 v122
+- 1 원인: tube 다리 모드는 달릴 때도 서 있는 부츠(원화 다리를 바짓단 아래에서 자른 것)를 그림 → 찢긴 장식이 돌고, 짧은 다리(엉덩이~발목 28px)라 정강이 각이 크게 흔들려 발목 범위([-.85,.95])에 걸린 부츠가 정강이를 따라 돌아 발끝이 60° 넘게 아래로
+  - 고침: 엔진 opt-in `legs.tube.runBoot` + 쪽별 `legs.near/far.runBoot`(달리면 한 프레임에 바꿈, 반투명 겹침 없음) — 달리는 부츠 = 시트 부츠 두 짝 그대로 1.1배(늘이지 않음, 색 원화). 발목 범위 [-1.7,1.7](부츠가 정강이를 따라 돌지 않음) · angK .2 → 발 각 최대 0.23 rad · 보폭 strideK .06 · bob 6 · heelKick .03. 다른 리그 화면 변화 0(옵션 없으면 같은 줄)
+- 2 원인: ①타격·버팀에서 먼 팔 펴짐 0.96(규칙 33 '0.9 이하'를 어김 — 9 키를 옮기며 표에 펴짐을 안 넣음) ②먼 윗팔을 남색 관(sleeve)으로 그려 긴 관처럼 보임. 시트 17번 먼 윗팔은 원화 팔 길이(어깨~팔꿈치 약 80px)의 약 0.6배(55px, 둥근 끝 포함)라 늘이지 않고는 못 씀 — 06:27 시트 검수 때 '따로 그린 팔 길이 vs 1번 속 팔 길이'(11 네온 21:05 점검표)를 안 봄
+  - 고침(지금): `tools/rekey29.py` — 키마다 칼 각·몸 기울기는 그대로, 쥔 점만 조건(펴짐 ≤ .85 · 손목 ≤ 35° · 칼끝 땅 위 · 칼끝이 지금보다 안 높게)에 맞는 가장 가까운 자리로 → 타격·버팀 손이 몸 쪽으로 약 50px, 휘두름 .415·.43·.65 키도 그 길로. 전체 1/400초: 펴짐 최대 .85 · 손목 35° · 칼끝 최고 −93(원화 y)
+  - 남은 것: 길이를 맞춘 먼 윗팔·먼 어깨 조각 요청(프롬프트 2, 가이드 refs/ref_B_arm_guide.png — 원화 위 윗팔·팔뚝 선, 채운 도형 없음)
